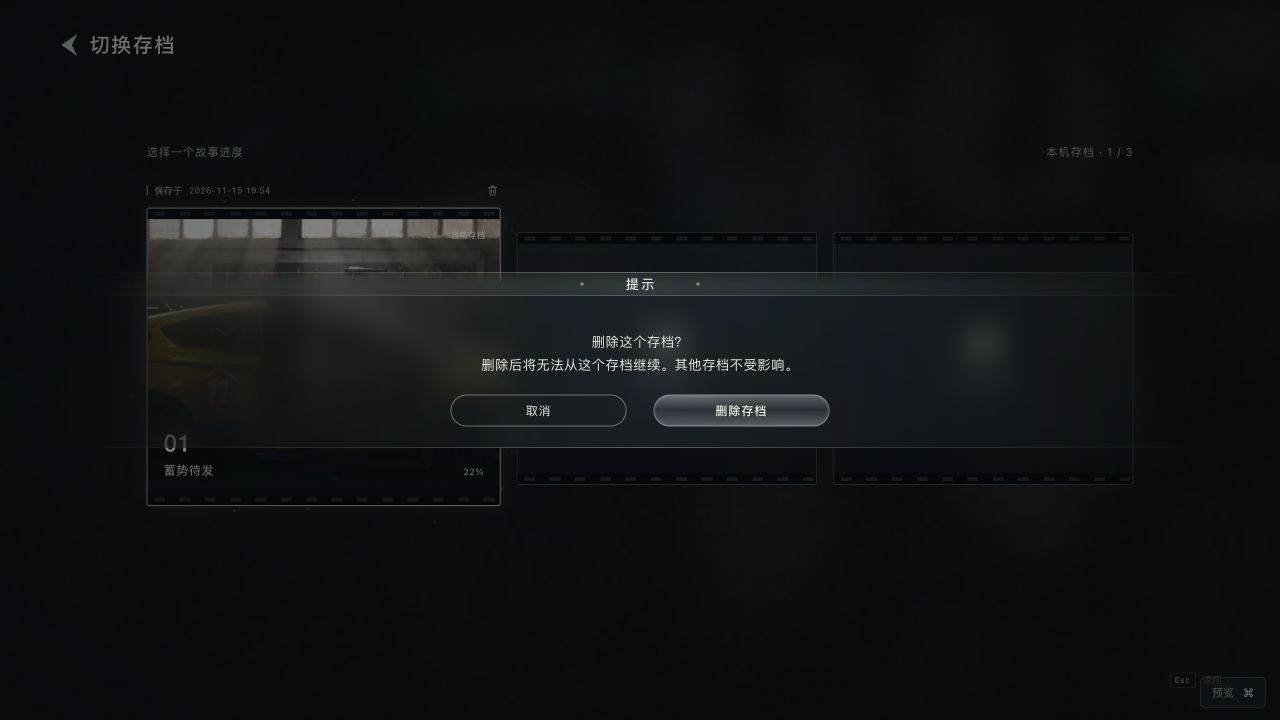
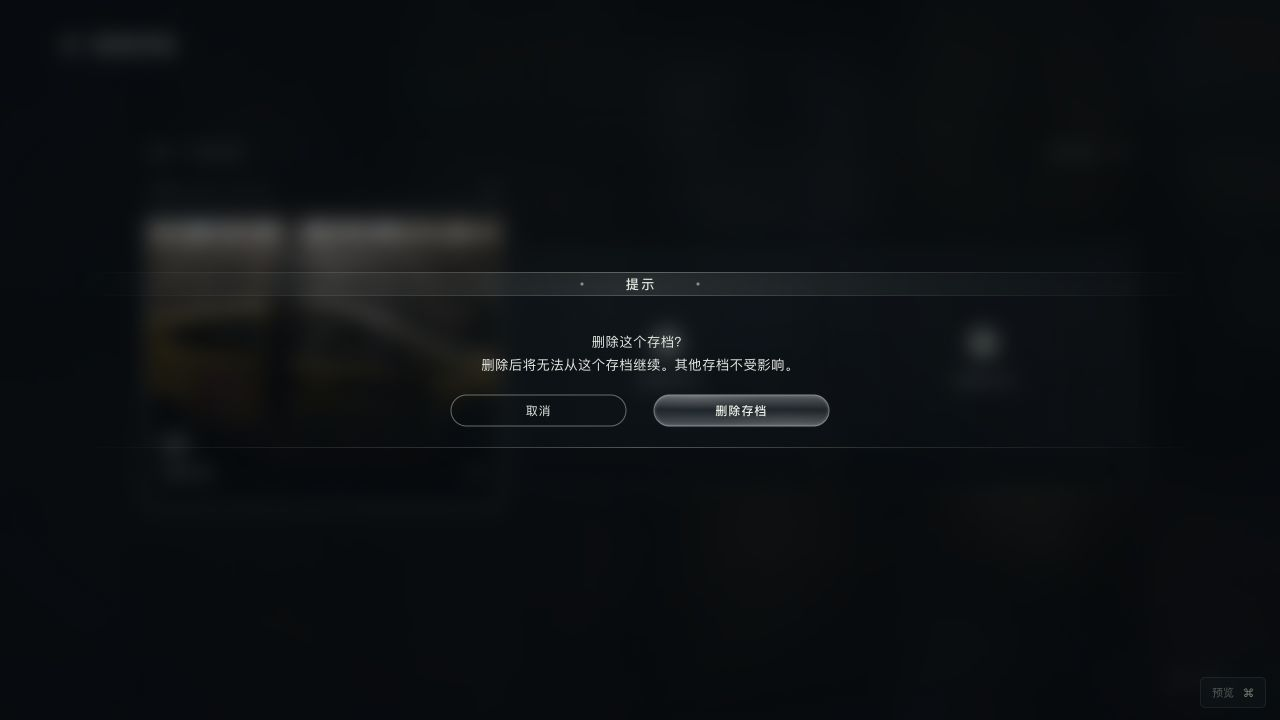
Focus dialog backgrounds with global dimming and blur

diff --git a/compare.html b/compare.html
@@ -1,4 +1,4 @@
-<!doctype html><html lang="zh-CN"><head><meta charset="utf-8"><meta name="viewport" content="width=device-width,initial-scale=1"><title>Yoroll 游戏 UI · 改版对比与比例方案</title><link rel="icon" href="wall/assets/yoroll-icon.svg"><link rel="stylesheet" href="compare.css?v=menu-highlight-motion-20261115"></head>
+<!doctype html><html lang="zh-CN"><head><meta charset="utf-8"><meta name="viewport" content="width=device-width,initial-scale=1"><title>Yoroll 游戏 UI · 改版对比与比例方案</title><link rel="icon" href="wall/assets/yoroll-icon.svg"><link rel="stylesheet" href="compare.css?v=global-dialog-backdrop-20261115"></head>
 <body><header class="report-header"><a class="brand" href="index.html"><img src="assets/yoroll-logo.png" alt="yoroll"></a><div><span>UI / MOTION STUDY</span><h1>更克制的比例，更连贯的节奏。</h1></div><a id="open-prototype" class="primary-link" href="index.html?page=home" target="_blank">打开交互原型 ↗</a></header>
 <div class="scope"><i></i><span>本地交互方案</span><span>17 个页面 / 状态</span><span>全视口背景</span><span>未修改线上 Unity 游戏</span></div>
 <main class="report-layout"><aside class="page-sidebar"><div class="sidebar-title">逐页对比</div><nav id="page-list"></nav><a href="#proportions">比例调整方案 ↓</a><a href="#handoff">动效与交付说明 ↓</a></aside><article><section class="comparison-section"><div class="page-heading"><div><span id="page-kind" class="eyebrow"></span><h2 id="page-name"></h2></div><div class="page-switch"><button id="prev" aria-label="上一页">←</button><span id="page-count"></span><button id="next" aria-label="下一页">→</button></div></div>
@@ -6,4 +6,4 @@
 <div id="comparison" class="comparison fit-stage" data-mode="wipe"><div class="still-stage"><div class="before-layer"><img id="before-image" alt="修改前截图"><div id="no-before" class="no-before" hidden><span>—</span><h3>没有对应原版截图</h3><p id="before-note"></p></div><span class="picture-label before-label">原版</span></div><div class="after-layer" id="after-layer"><img id="after-image" alt="修改后截图"><span class="picture-label after-label">新版</span></div><div id="wipe-handle" class="wipe-handle"><span>↔</span></div><div class="safe-area" aria-hidden="true"><span>4.5% 水平安全区</span></div></div><div class="motion-stage" hidden><iframe id="motion-frame" title="页面动效预览"></iframe><div class="safe-area" aria-hidden="true"><span>4.5% 水平安全区</span></div></div></div>
 <div id="slider-row" class="slider-row"><span>新版更多</span><input id="wipe-slider" type="range" min="0" max="100" value="50" aria-label="新旧画面分割位置"><span>原版更多</span></div><p id="image-note" class="image-note"></p><div class="change-summary"><div><h3>布局与层级</h3><p id="change"></p></div><div><h3>比例</h3><p id="ratio"></p></div><div><h3>动效与操作</h3><p id="motion"></p><p id="interaction"></p></div></div></section>
 <section id="proportions" class="spec-section"><div class="section-heading"><span class="eyebrow">PROPORTION SYSTEM</span><h2>分别调整层级，建立统一的尺寸体系。</h2><p>以下均以 1920×1080 为设计基准。背景随视口铺满，UI 按当前基准等比缩放；水平安全区为画面宽度的 4.5%。原版数值来自截图估测。</p></div><div class="table-scroll"><table><thead><tr><th>项目</th><th>原版 · 约</th><th>新版</th><th>变化</th><th>调整目的</th></tr></thead><tbody id="proportion-table"></tbody></table></div><div class="principles"><div><span>01</span><h3>让场景成为主体</h3><p>减少全屏灰白覆盖和重高光。菜单、设置、弹窗用暗色虚化与局部明暗建立前后层次。</p></div><div><span>02</span><h3>控制视觉重量</h3><p>正文、辅助数值、主操作分别定标。保留大结果标题，收紧表单标签与导航控件。</p></div><div><span>03</span><h3>统一反馈语言</h3><p>细描边、短位移、柔和减速。悬停、按下、选中、取消与退出都给出明确回应。</p></div></div></section>
-<section id="handoff" class="spec-section"><div class="section-heading"><span class="eyebrow">MOTION SYSTEM</span><h2>一套进出场节奏，覆盖每个页面。</h2><p>页面退出 150ms，新页标题先入场，内容以 42–85ms 错峰，主体在约 0.8–1.1s 内落位。背景与封面 Logo 使用更长的缓慢收尾。</p></div><div class="motion-grid"><div><h3>常规入场</h3><strong>560–760<span> ms</span></strong><p>缓动 cubic-bezier(.16, 1, .3, 1)<br>上下位移约 8–24px，以设计基准计</p></div><div><h3>背景推近</h3><strong>3.6<span> s</span></strong><p>起止速度与加速度均为零<br>封面 100% → 103.5%，结束后停留</p></div><div><h3>确认弹窗</h3><strong>700<span> ms</span></strong><p>背景从中间向两侧展开，文字与按钮错峰浮现<br>文字先淡出，再向中央收拢，约 360ms</p></div></div><div class="check-row"><span>✓ 页面切换</span><span>✓ 悬停 / 按下</span><span>✓ 键盘操作</span><span>✓ 弹窗焦点</span><span>✓ 减少动态效果适配</span><span>✓ 所有页面可重播</span><span>✓ Hover / 点击 / 切页音效</span></div><div class="file-links"><a href="design-tokens.json" download>下载尺寸与颜色参数</a><a href="motion-spec.json" download>下载逐页动效参数</a><a href="sound-spec.json" download>下载界面音效参数</a><a href="implementation-notes.txt" download>下载落地说明</a><a href="https://preview.game.yoroll.ai/?config=Race&test=1&lang=zh" target="_blank">查看原始预览 ↗</a></div><details open><summary>范围、素材与验证说明</summary><ul id="scope-notes"></ul><p>已检查主菜单、章节与剧情树导航；设置数值与语言下拉；新建存档和确认 / 取消；限时选择暂停计时；选择 → QTE → 结果链路；完成页可进入下一章或返回章节选择，末章进入游戏结束；QTE 超时进入失败并可重试。所有页面 / 状态均已保存本地截图。</p></details></section><footer class="report-footer">YOROLL · UI & MOTION EXPLORATION <span>2026.11.11 · 本地方案</span></footer></article></main><script src="report-data.js?v=menu-highlight-motion-20261115"></script><script src="compare.js?v=menu-highlight-motion-20261115"></script></body></html>
+<section id="handoff" class="spec-section"><div class="section-heading"><span class="eyebrow">MOTION SYSTEM</span><h2>一套进出场节奏，覆盖每个页面。</h2><p>页面退出 150ms，新页标题先入场，内容以 42–85ms 错峰，主体在约 0.8–1.1s 内落位。背景与封面 Logo 使用更长的缓慢收尾。</p></div><div class="motion-grid"><div><h3>常规入场</h3><strong>560–760<span> ms</span></strong><p>缓动 cubic-bezier(.16, 1, .3, 1)<br>上下位移约 8–24px，以设计基准计</p></div><div><h3>背景推近</h3><strong>3.6<span> s</span></strong><p>起止速度与加速度均为零<br>封面 100% → 103.5%，结束后停留</p></div><div><h3>确认弹窗</h3><strong>700<span> ms</span></strong><p>背景从中间向两侧展开，文字与按钮错峰浮现<br>文字先淡出，再向中央收拢，约 360ms</p></div></div><div class="check-row"><span>✓ 页面切换</span><span>✓ 悬停 / 按下</span><span>✓ 键盘操作</span><span>✓ 弹窗焦点</span><span>✓ 减少动态效果适配</span><span>✓ 所有页面可重播</span><span>✓ Hover / 点击 / 切页音效</span></div><div class="file-links"><a href="design-tokens.json" download>下载尺寸与颜色参数</a><a href="motion-spec.json" download>下载逐页动效参数</a><a href="sound-spec.json" download>下载界面音效参数</a><a href="implementation-notes.txt" download>下载落地说明</a><a href="https://preview.game.yoroll.ai/?config=Race&test=1&lang=zh" target="_blank">查看原始预览 ↗</a></div><details open><summary>范围、素材与验证说明</summary><ul id="scope-notes"></ul><p>已检查主菜单、章节与剧情树导航；设置数值与语言下拉；新建存档和确认 / 取消；限时选择暂停计时；选择 → QTE → 结果链路；完成页可进入下一章或返回章节选择，末章进入游戏结束；QTE 超时进入失败并可重试。所有页面 / 状态均已保存本地截图。</p></details></section><footer class="report-footer">YOROLL · UI & MOTION EXPLORATION <span>2026.11.11 · 本地方案</span></footer></article></main><script src="report-data.js?v=global-dialog-backdrop-20261115"></script><script src="compare.js?v=global-dialog-backdrop-20261115"></script></body></html>

diff --git a/report-data.js b/report-data.js
@@ -99,7 +99,8 @@ window.YOROLL_REPORT = {
       "selectedFloatRevision": "saves-selected-float-20261113",
       "footerRevision": "saves-footer-clean-20261113",
       "selectedParticlesRevision": "saves-dust-depth-20261113",
-      "dialogMotion": "六类确认共用开合：入场背景 700ms 从中间展开、文字按钮错峰浮现；关闭内容 110ms 淡出，背景提前到 80ms 开始收拢，整体约 360ms 完成，遮罩在 160ms 开始淡出。"
+      "dialogMotion": "六类确认共用开合：入场背景 700ms 从中间展开、文字按钮错峰浮现；关闭内容 110ms 淡出，背景提前到 80ms 开始收拢，整体约 360ms 完成，遮罩在 160ms 开始淡出。",
+      "dialogAppearance": "确认出现时整页背景统一压暗并柔和虚化 10px，减少海报与页面文字干扰。横幅仅保留约 12% 的轻底色和渐隐细线，横幅及按钮取消局部背景模糊，前景文字保持清晰。"
     },
     {
       "id": "settings",
@@ -118,11 +119,11 @@ window.YOROLL_REPORT = {
       "name": "退出登录",
       "before": "08-logout.jpg",
       "kind": "原版实拍",
-      "change": "底线与顶部共用同一条低亮度冷白渐变，中央约 30% 透明度、两端渐隐，保持清晰轻薄的收边。关闭时内容先淡出，背景与边线再向中央收拢；紧凑比例与轻磨砂保持。",
+      "change": "确认出现时整页背景统一压暗并柔和虚化 10px，减少海报与页面文字干扰。横幅仅保留约 12% 的轻底色和渐隐细线，横幅及按钮取消局部背景模糊，前景文字保持清晰。",
       "ratio": "1920×1080 基准：横幅约 264px 高，占画面高度约 24%；标题 20px、正文 20px。按钮保留 264×48px、18px 字号，按钮间距收至 40px。",
       "motion": "六类确认共用开合：入场背景 700ms 从中间展开、文字按钮错峰浮现；关闭内容 110ms 淡出，背景提前到 80ms 开始收拢，整体约 360ms 完成，遮罩在 160ms 开始淡出。",
       "interaction": "取消、Esc 与焦点回到原控件；确认只切换本地演示账号状态。",
-      "appearanceRevision": "unified-dialogs-quick-close-20261115",
+      "appearanceRevision": "global-dialog-backdrop-20261115",
       "motionRevision": "unified-dialogs-quick-close-20261115"
     },
     {
@@ -223,11 +224,11 @@ window.YOROLL_REPORT = {
       "name": "退出确认",
       "before": "09-exit.jpg",
       "kind": "原版退出后黑屏",
-      "change": "底线与顶部共用同一条低亮度冷白渐变，中央约 30% 透明度、两端渐隐，保持清晰轻薄的收边。关闭时内容先淡出，背景与边线再向中央收拢；紧凑比例与轻磨砂保持。",
+      "change": "确认出现时整页背景统一压暗并柔和虚化 10px，减少海报与页面文字干扰。横幅仅保留约 12% 的轻底色和渐隐细线，横幅及按钮取消局部背景模糊，前景文字保持清晰。",
       "ratio": "1920×1080 基准：横幅约 264px 高，占画面高度约 24%；标题 20px、正文 20px。按钮保留 264×48px、18px 字号，按钮间距收至 40px。",
       "motion": "六类确认共用开合：入场背景 700ms 从中间展开、文字按钮错峰浮现；关闭内容 110ms 淡出，背景提前到 80ms 开始收拢，整体约 360ms 完成，遮罩在 160ms 开始淡出。",
       "interaction": "取消、Esc、退出均可演示。",
-      "appearanceRevision": "unified-dialogs-quick-close-20261115",
+      "appearanceRevision": "global-dialog-backdrop-20261115",
       "motionRevision": "unified-dialogs-quick-close-20261115"
     }
   ],
@@ -345,6 +346,7 @@ window.YOROLL_REPORT = {
     "确认横幅展开动效（2026-11-14）：取消整块面板的上移／缩放。背景用居中的柔边 mask-size 从 4% 到 100% 在 700ms 内展开，不变形或拉伸背后的场景；标题带与底部细线同步自中心延展。标题于 180ms、两行正文于 230/275ms、两个按钮于 310/355ms 淡入，文字仅上移 4–6px 并去除轻微虚化，整体约 775ms 完成。按钮入场结束释放属性，原有 hover 与呼吸光继续；220ms 遮罩、150ms 退出、现有音效及静态比例保留。减少动态效果时直接呈现静态内容。",
     "确认横幅收拢关闭（2026-11-15）：底部 1px 线与标题顶部共用同一渐变，中央透明度由约 65% 降至 30%。关闭时文字与按钮先以 160ms 淡出，背景及上下边线于 140ms 起用 460ms 向中心收拢，遮罩在末段 260ms 渐出，总计约 600ms；衔接处短暂重叠，避免停顿。入场未结束时从实际蒙版宽度、透明度及位移接续，尚无可见内容时直接收拢。取消、Esc 和确认统一执行；确认回调只在关闭成功后触发一次，强制切页或新弹窗会取消旧回调，原焦点只回到对应的旧触发器。减少动态效果时直接关闭。静态尺寸、已有入场与音效保留；确认关闭不额外播放返回音。",
     "确认弹窗全面统一与加快关闭（2026-11-15）：退出故事、退出登录、登录提示、新建存档、切换存档、删除存档均使用同一横幅、提示标题、上下细线与玻璃确认按钮，删除提示和原操作文案保留。统一关闭配置为内容 110ms、背景提前 80ms 启动并在 280ms 内收拢、遮罩于 160ms 起用 200ms 淡出，常规总时长从 600ms 缩为 360ms；无可见文字时直接收拢，最快 280ms。所有类型共用同一个关闭配置及取消、Esc、确认后执行机制，减少不同弹窗间的等待差异。静态尺寸、入场、焦点恢复和原音效保持。",
-    "左侧菜单选中反馈（2026-11-15）：默认与封面首页共用分层反馈，细线自中心由 18% 到 100% 在 420ms 内舒展，透明度 240ms 显现并在 280ms 内去除轻微虚化；圆点缩放由 .55 到 1，于 15ms 起渐亮，文字与文字柔光分别延迟 25/45ms。移开时细线仅用 160ms 淡出，连续点选／悬停可自然反向接续，键盘焦点同款。菜单 25px 字号、51px 行高、17px 间距、168px 最小宽度和原 5px 选中位移均保持。首项高亮选择器改为真实首行，修正包装容器让所有按钮都误成首项的问题；主入口保留原亮度，其他未选中项恢复低亮，当前项提亮。没有新增箭头或底框，游戏逻辑、背景和所有音效保持。"
+    "左侧菜单选中反馈（2026-11-15）：默认与封面首页共用分层反馈，细线自中心由 18% 到 100% 在 420ms 内舒展，透明度 240ms 显现并在 280ms 内去除轻微虚化；圆点缩放由 .55 到 1，于 15ms 起渐亮，文字与文字柔光分别延迟 25/45ms。移开时细线仅用 160ms 淡出，连续点选／悬停可自然反向接续，键盘焦点同款。菜单 25px 字号、51px 行高、17px 间距、168px 最小宽度和原 5px 选中位移均保持。首项高亮选择器改为真实首行，修正包装容器让所有按钮都误成首项的问题；主入口保留原亮度，其他未选中项恢复低亮，当前项提亮。没有新增箭头或底框，游戏逻辑、背景和所有音效保持。",
+    "弹窗背景聚焦（2026-11-15）：所有六类确认将虚化移到整页遮罩，背景采用 10px 高斯模糊与更集中的暗色渐层；场景仍保留颜色和轮廓。横幅中央底色透明度由约 20% 降至约 12%，横幅和确认／取消按钮的局部 backdrop-filter 均取消；前景文字不受背景虚化影响。沿用原 220ms 遮罩入场、700ms 横幅展开和 360ms 收拢关闭，整页虚化随遮罩淡入淡出，关闭后恢复页面原有清晰度。264px 高度、字号、间距、上下细线和音效保持。"
   ]
 };

diff --git a/compare.js b/compare.js
@@ -15,7 +15,7 @@ function updatePage(){
  $('#page-kind').textContent=page.kind;
  $('#page-count').textContent=`${String(index+1).padStart(2,'0')} / ${pages.length}`;
  $('#change').textContent=page.change;$('#ratio').textContent=page.ratio;$('#motion').textContent=page.motion;$('#interaction').textContent=page.interaction;
- $('#after-image').src=`comparison/after/${page.id}.jpg?v=menu-highlight-motion-20261115`;
+ $('#after-image').src=`comparison/after/${page.id}.jpg?v=global-dialog-backdrop-20261115`;
  $('#after-image').alt=page.name+'修改后';
  $('#before-image').hidden=!page.before;
  $('#no-before').hidden=Boolean(page.before);
@@ -23,12 +23,12 @@ function updatePage(){
  else $('#before-image').removeAttribute('src');
  $('#before-note').textContent=page.beforeNote|| (page.kind==='沿用已定方案'?'沿用本聊天之前已确认的封面构图与素材。':'该状态未在这次线上预览中观察到。新版提供可操作的补充动效示例。');
  $('#image-note').textContent=mode==='motion'?'当前为可操作的实时动效。页面内可以继续导航，点击重播可回到所选页面。':page.before?(page.beforeSource==='user'?'原版来自用户提供的旧版 UI；新版为浏览器实际截图，重点对比尺寸、间距和动效。':'原版来自线上实际截图；新版为本地浏览器截图。底图部分不同，对比重点为 UI 占比、层级与位置。'):'左侧保留来源说明；右侧展示本轮方案。点击「播放动效」体验完整入场。';
- $('#open-prototype').href=`index.html?page=${page.id}&revision=menu-highlight-motion-20261115`;
+ $('#open-prototype').href=`index.html?page=${page.id}&revision=global-dialog-backdrop-20261115`;
  document.querySelectorAll('[data-page]').forEach(button=>{if(button.dataset.page===page.id)button.setAttribute('aria-current','page');else button.removeAttribute('aria-current');});
  history.replaceState(null,'','#'+page.id);
  if(mode==='motion')loadMotion();
 }
-function loadMotion(){const page=pages[index];$('#motion-frame').src=`index.html?page=${page.id}&capture=1&revision=menu-highlight-motion-20261115&replay=${++replay}`;}
+function loadMotion(){const page=pages[index];$('#motion-frame').src=`index.html?page=${page.id}&capture=1&revision=global-dialog-backdrop-20261115&replay=${++replay}`;}
 function setMode(value){
  mode=value;$('#comparison').dataset.mode=mode;
  document.querySelectorAll('button[data-mode]').forEach(button=>button.setAttribute('aria-pressed',String(button.dataset.mode===mode)));

diff --git a/style.css b/style.css
@@ -491,9 +491,9 @@
 
 /* Reference hierarchy: one prompt header, body copy and capsule actions. */
 .modal-scrim{
-  background:radial-gradient(ellipse at 50% 48%,#03070a24 18%,#03070a85 100%),#03070a38;
-  backdrop-filter:none;
-  -webkit-backdrop-filter:none;
+  background:radial-gradient(ellipse at 50% 48%,#03070a4d 18%,#03070a80 100%),#03070a40;
+  backdrop-filter:blur(10px);
+  -webkit-backdrop-filter:blur(10px);
 }
 .modal{
   --dialog-edge-light:linear-gradient(90deg,transparent 6%,#dce8dd26 32%,#edf2e54d 50%,#dce8dd26 68%,transparent 94%);
@@ -515,9 +515,9 @@
   position:absolute;
   z-index:-1;
   inset:0;
-  background:linear-gradient(90deg,#18252a00,#30424826 25%,#4a5c6233 50%,#30424826 75%,#18252a00);
-  backdrop-filter:blur(16px);
-  -webkit-backdrop-filter:blur(16px);
+  background:linear-gradient(90deg,#14212b00,#14212b0d 25%,#1d303b1f 50%,#14212b0d 75%,#14212b00);
+  backdrop-filter:none;
+  -webkit-backdrop-filter:none;
   -webkit-mask-image:linear-gradient(90deg,transparent,#000 22%,#000 78%,transparent),linear-gradient(180deg,transparent,#000 7%,#000);
   mask-image:linear-gradient(90deg,transparent,#000 22%,#000 78%,transparent),linear-gradient(180deg,transparent,#000 7%,#000);
   -webkit-mask-composite:source-in;
@@ -604,6 +604,8 @@
 .modal-actions .btn{
   flex:0 1 calc(var(--p)*264);
   border-radius:calc(var(--p)*24);
+  backdrop-filter:none;
+  -webkit-backdrop-filter:none;
 }
 .modal-actions [data-action="modal-cancel"]{background:transparent;border-color:#d4ded573;color:#e7ebe3;}
 .modal-actions [data-action="modal-cancel"]:hover{background:#e2e9df0d;border-color:#f1f2e9b3;}

diff --git a/index.html b/index.html
@@ -6,7 +6,7 @@
   <meta name="theme-color" content="#0a0d0e">
   <title>Yoroll · 游戏 UI 动效改版</title>
   <link rel="icon" href="wall/assets/yoroll-icon.svg">
-  <link rel="stylesheet" href="style.css?v=menu-highlight-motion-20261115">
+  <link rel="stylesheet" href="style.css?v=global-dialog-backdrop-20261115">
   <link rel="preload" as="fetch" href="assets/audio/home-opening.wav?v=opening-fade-20261111" crossorigin="anonymous">
 </head>
 <body>
@@ -30,9 +30,9 @@
     <div class="review-sound"><button data-action="restart-music">↻ 重播开场音</button><button data-action="toggle-preview-audio">暂停声音</button></div>
     <p id="music-status" class="sound-status">首次点击后播放开场音</p>
   </aside>
-  <script src="ui-sound.js?v=menu-highlight-motion-20261115"></script>
+  <script src="ui-sound.js?v=global-dialog-backdrop-20261115"></script>
   <script src="home-music.js?v=completion-gold-particles-20261114"></script>
   <script src="story-tree.js?v=tree-locked-hover-20261113"></script>
-  <script src="app.js?v=menu-highlight-motion-20261115"></script>
+  <script src="app.js?v=global-dialog-backdrop-20261115"></script>
 </body>
 </html>
